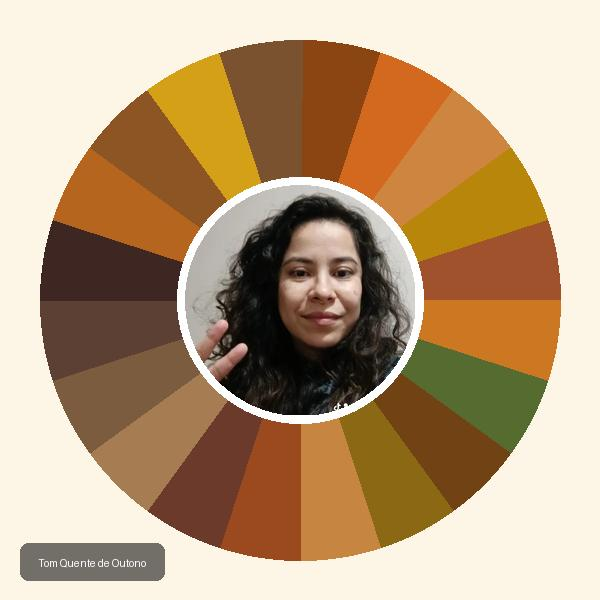
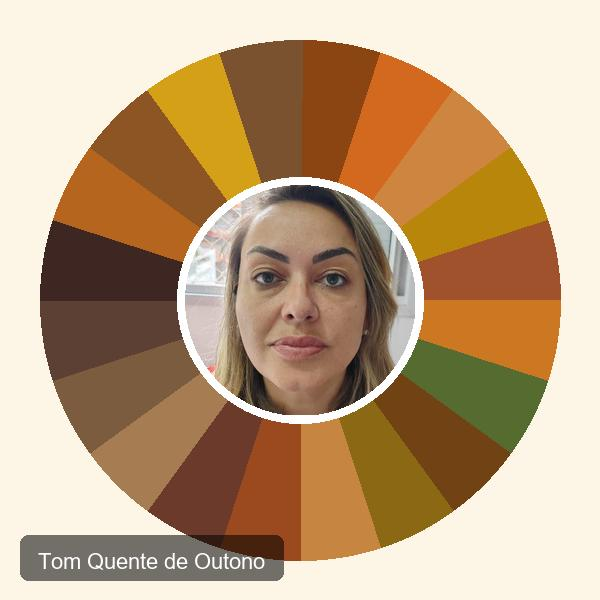
modificacao na rota api/check_cores

Changed region(s): [[0.3, 0.3, 0.69, 0.69], [0.03, 0.87, 0.48, 0.99]]

diff --git a/app.py b/app.py
@@ -126,7 +126,7 @@ def iniciar_analise_upload(payload: AnaliseUploadRequest) -> dict[str, object]:
 @app.post("/api/check_cores")
 def calibracao() -> dict[str, object]:
     try:
-        capturar_imagem("/static/imagens/check_color.jpg")
+        capturar_imagem(IMAGE_CHECK_PATH)
         metricas = check_cores.analisar_color_checker(str(IMAGE_CHECK_PATH))
     except FileNotFoundError as exc:
         print(f"ERRO FileNotFoundError: {exc}")